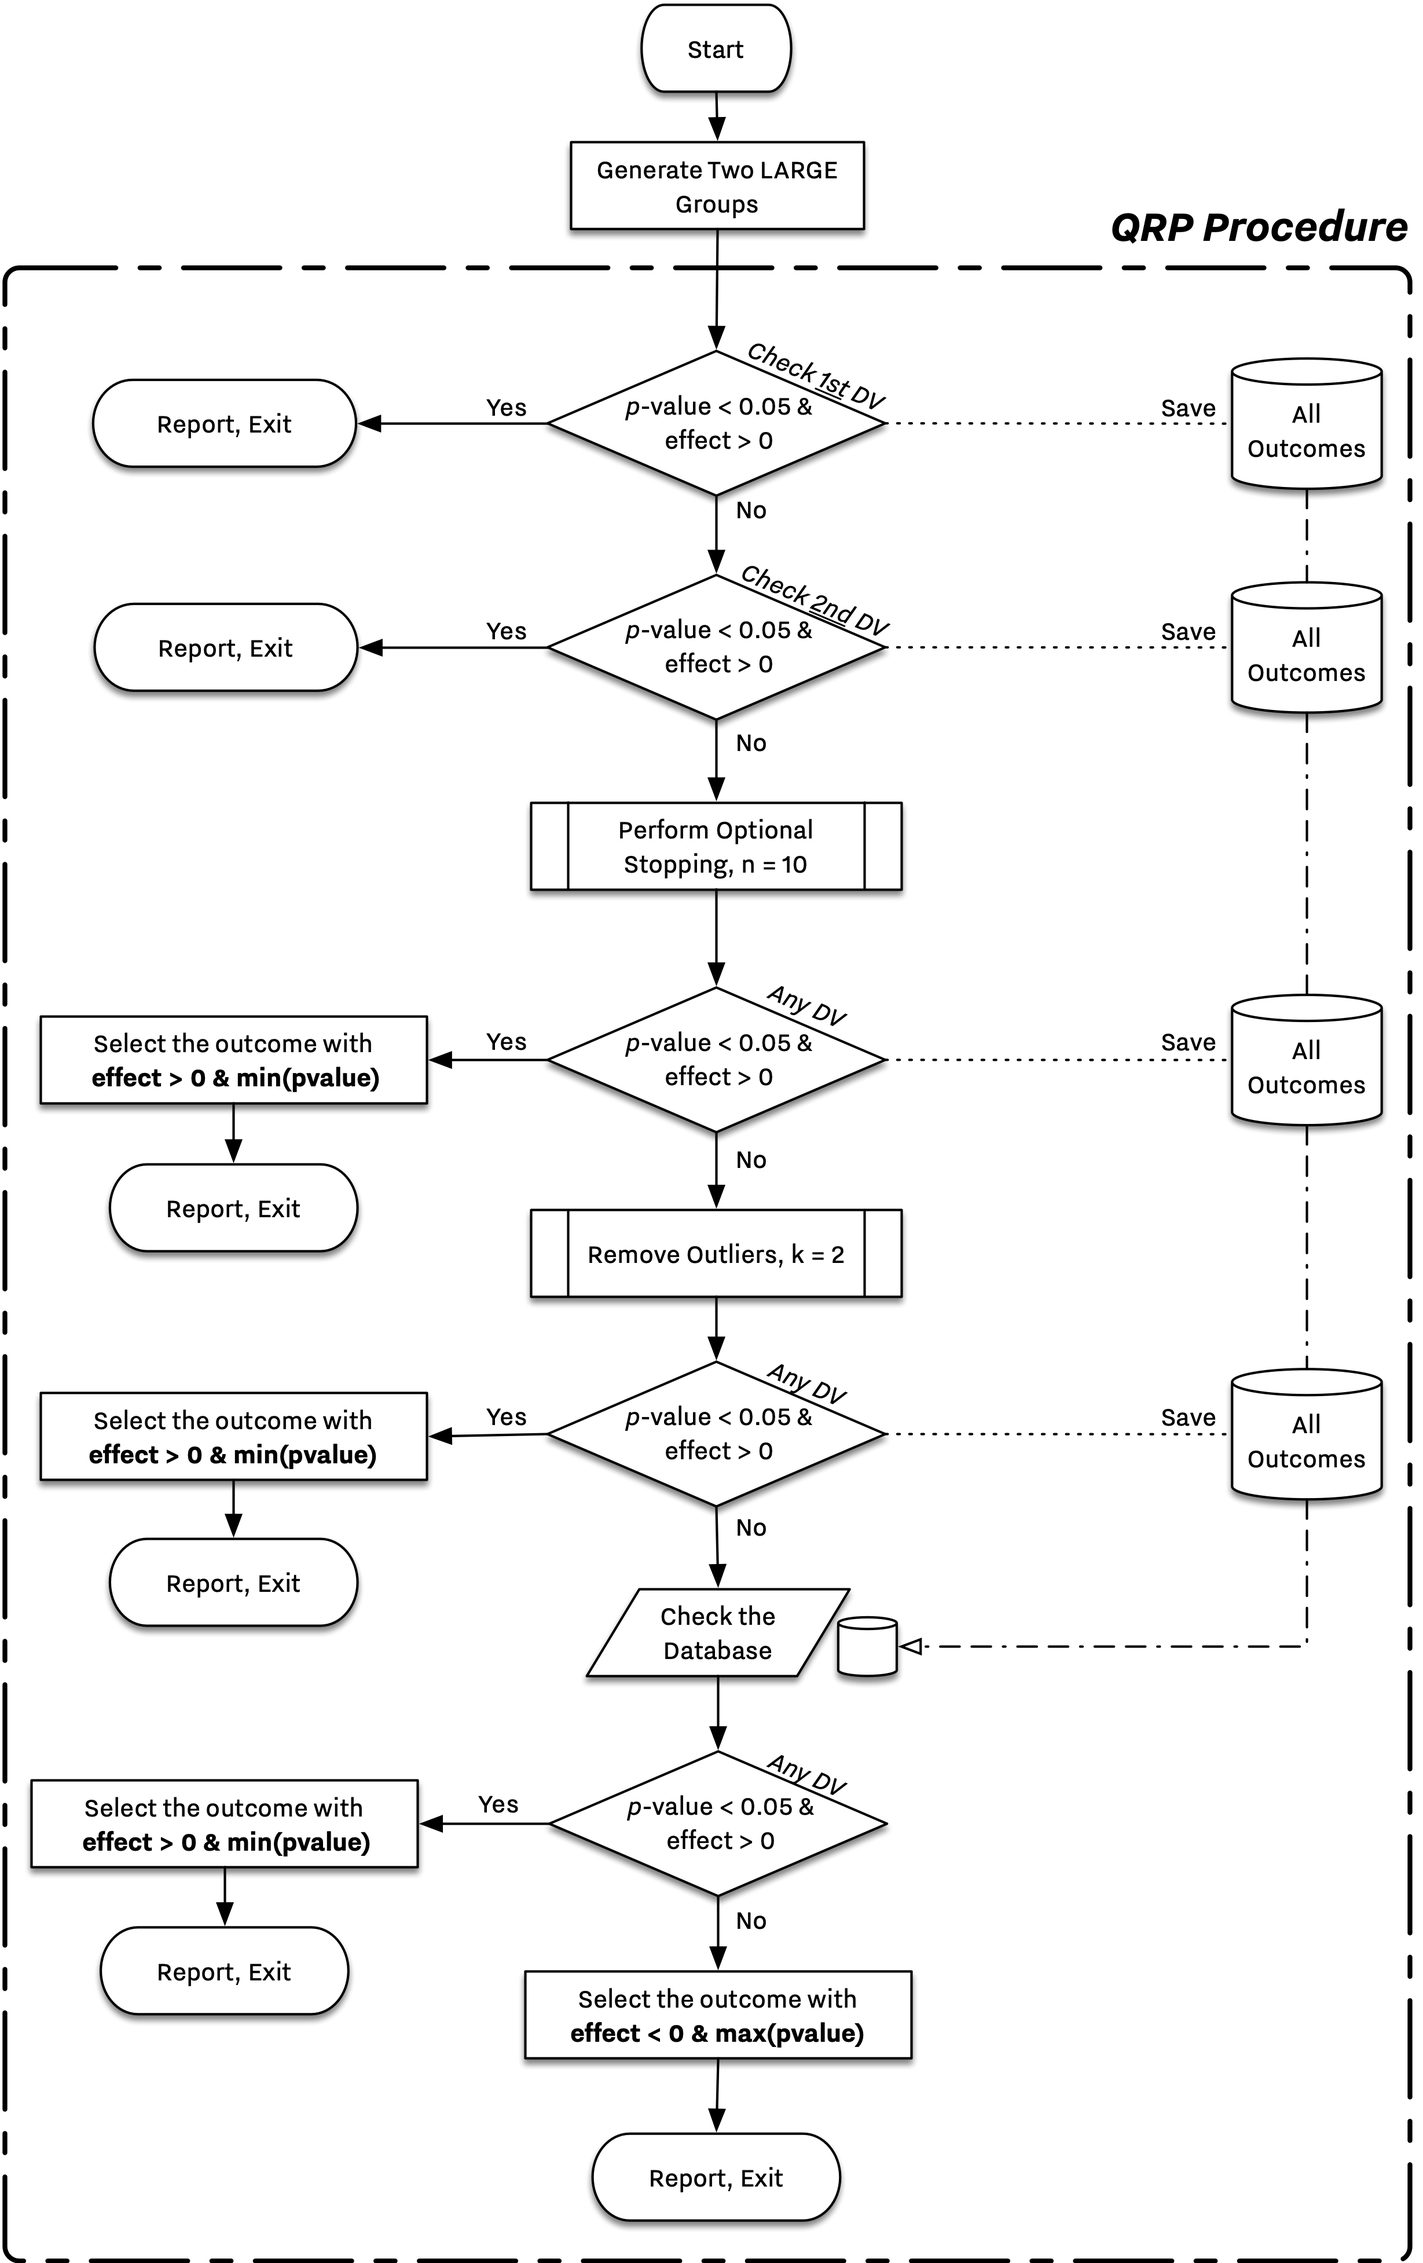
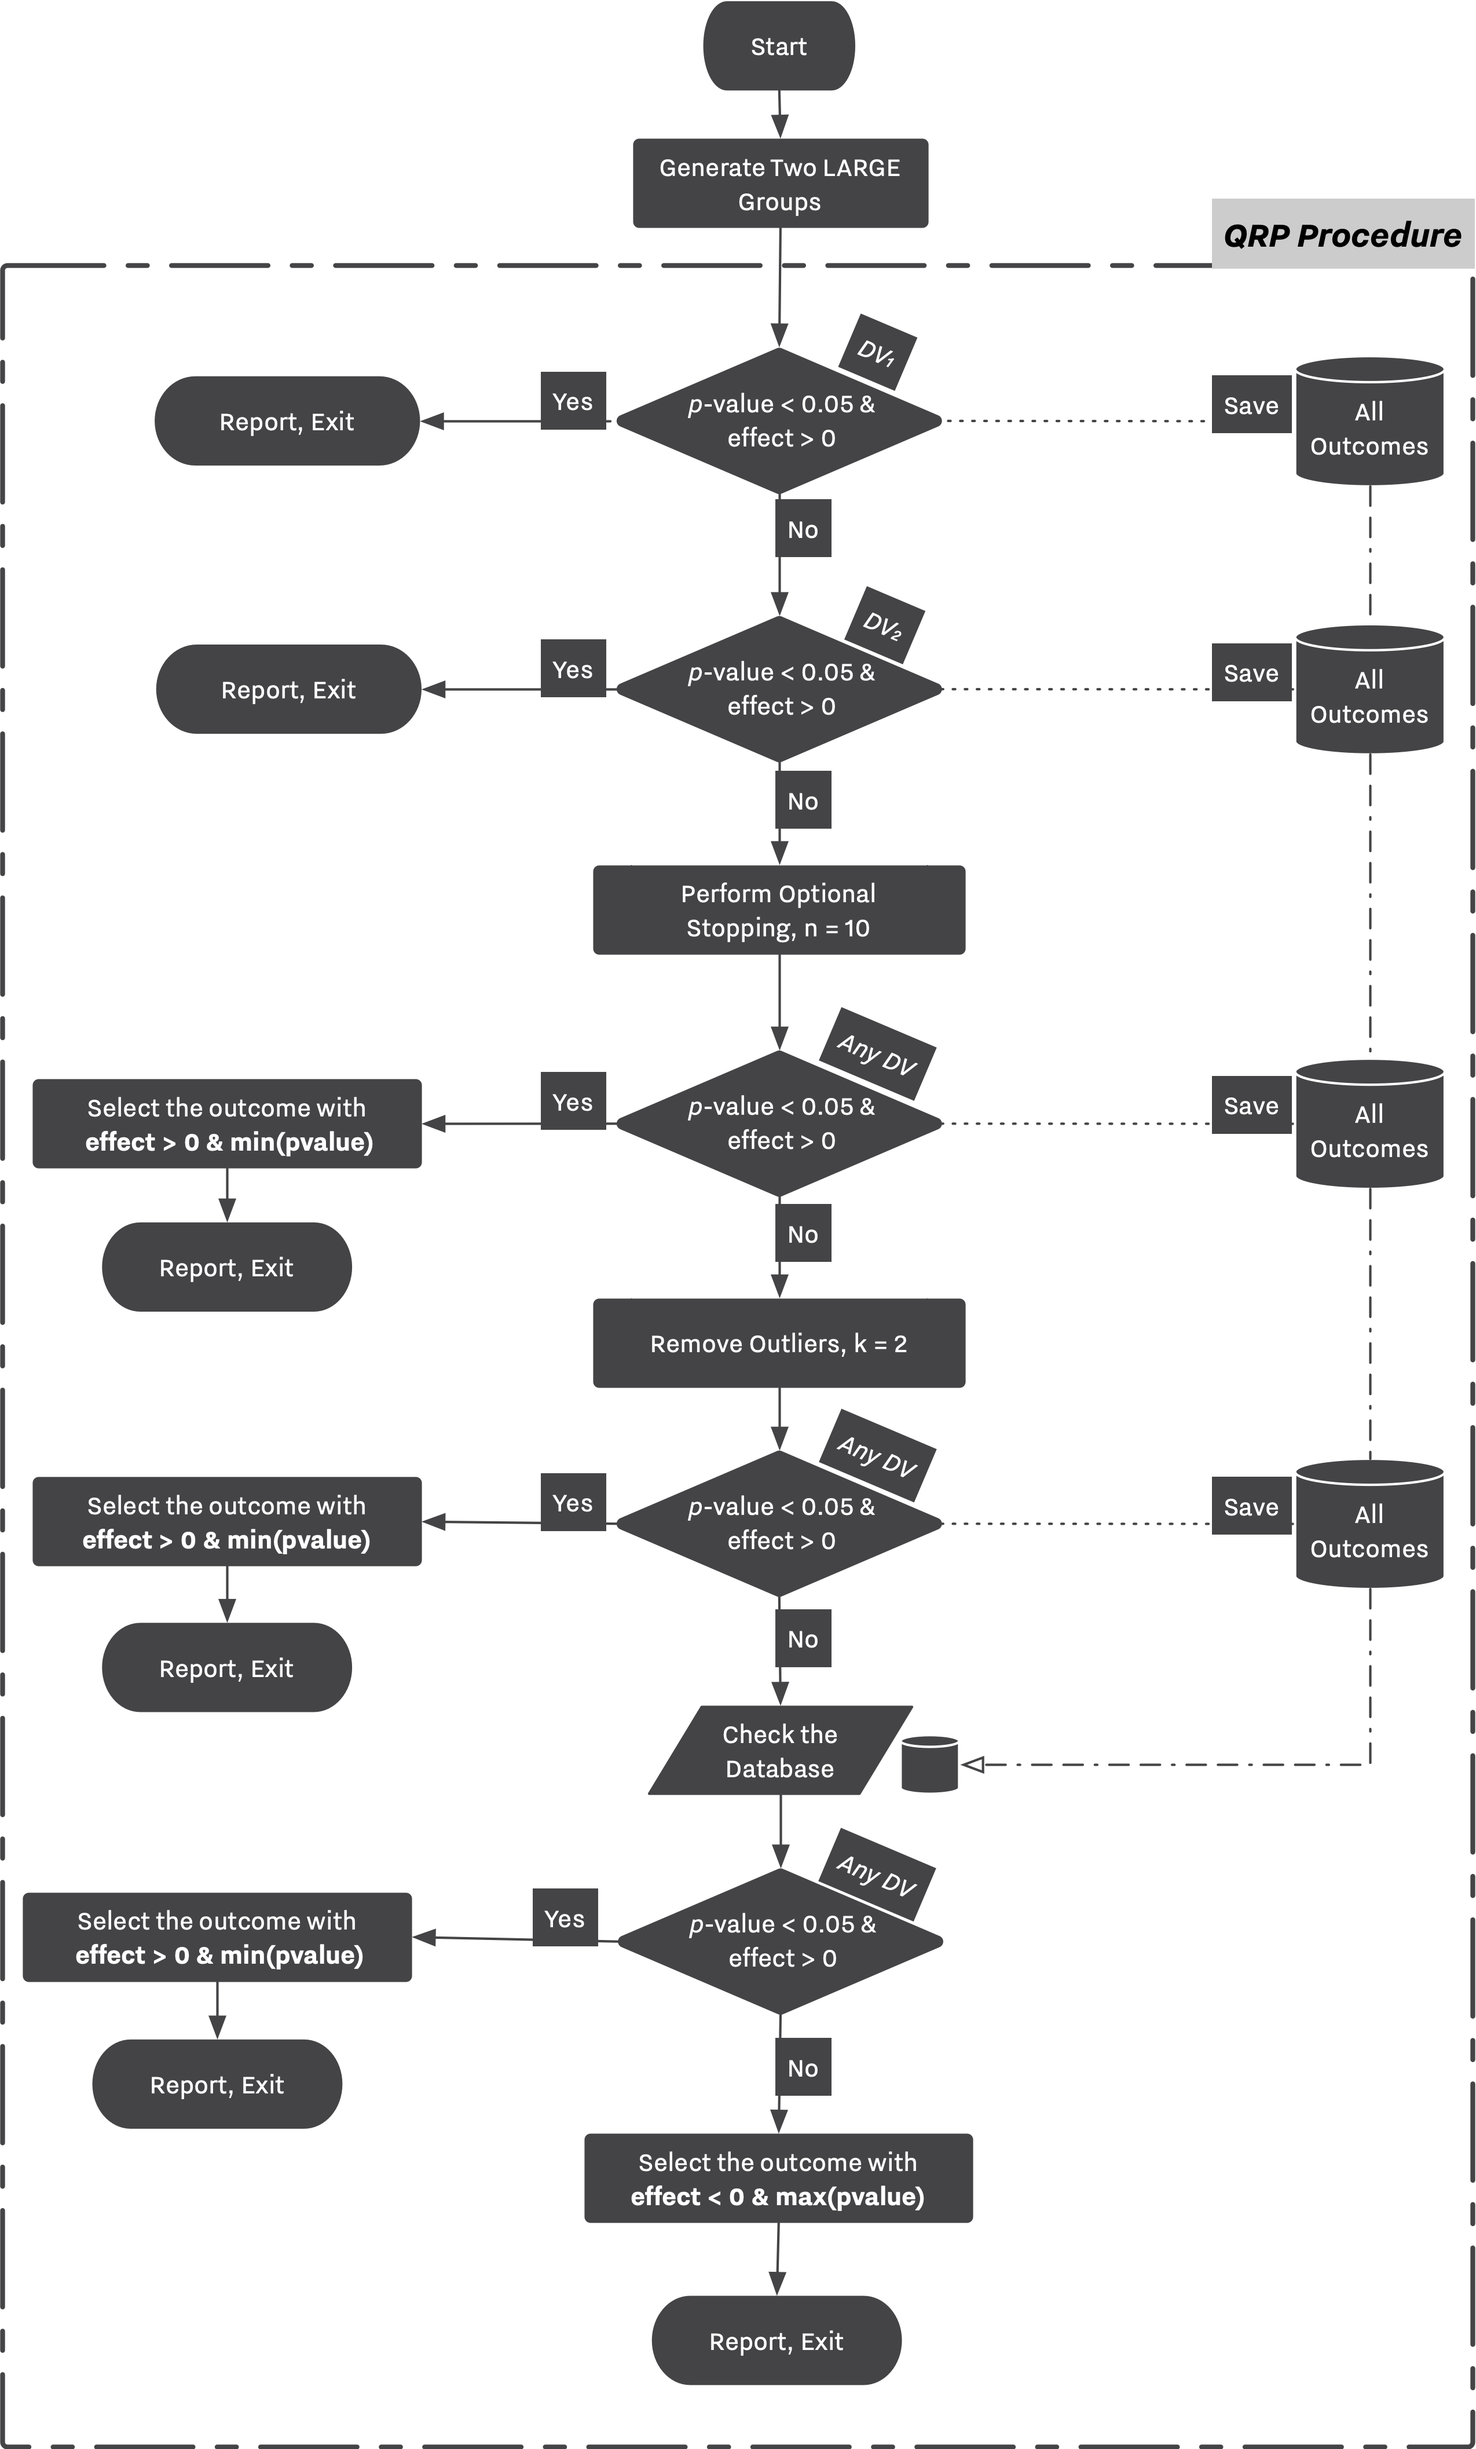
Updated some of the figures. They now use one color for both prefs

diff --git a/docs/examples/baker_et_al_2012.md b/docs/examples/baker_et_al_2012.md
@@ -27,9 +27,6 @@ Figure <a href="#fig:qrp_large" data-reference-type="ref" data-reference="fig:q
 
 <figure>
 	<picture>
-	  <source 
-    srcset="/figures/baker_2012/Marjan_2012_QRP_Large_Dark.png" 
-        media="(prefers-color-scheme: dark)">
 	  <img src="/figures/baker_2012/Marjan_2012_QRP_Large.png" id="fig:qrp_large" alt="Flowchart describing Strategy 1, and 2. In the case of Strategy 1, the simulation does not enter the QRP Procedure and reports the first dependent variable." />
 	</picture>
 	<figcaption aria-hidden="true"><b>Figure 1.</b> Flowchart describing Strategy 1, and 2. In the case of Strategy 1, the simulation does not enter the QRP Procedure and reports the first dependent variable.</figcaption>

diff --git a/docs/examples/esther_first_year.md b/docs/examples/esther_first_year.md
@@ -5,9 +5,3 @@ Esther's First Year Simulation Study
 
 
 ![Esther's Simulation Design](/figures/esther/Esthers_Simulation.png)
-
-
-
-<video width="320" height="240" controls>
-  <source src="/out_1.webm" type="video/mp4">
-</video>
